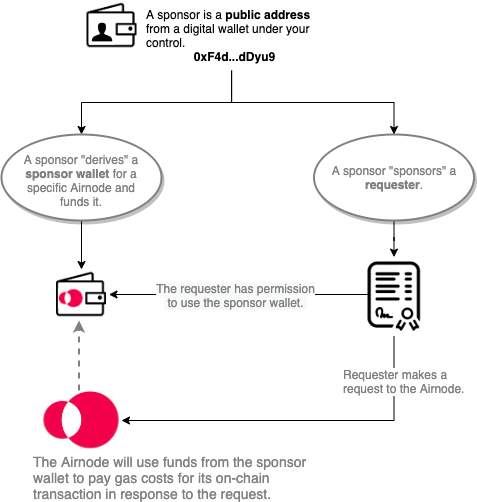
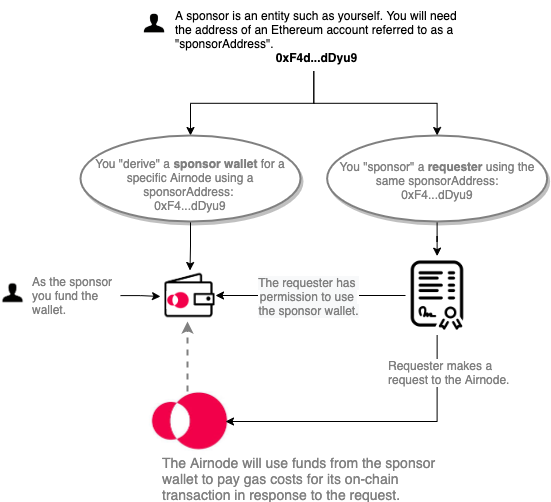
More general work on Sponsors

diff --git a/docs/next/grp-developers/sponsorship.md b/docs/next/grp-developers/sponsorship.md
@@ -19,57 +19,83 @@ As an example see the `myContract.sol` contract in the diagram within the [Overv
 
 ## What is a Sponsor?
 
-Equally important is the term **sponsor** also found thought the docs and code. A sponsor is the public address of a wallet (Ethereum account) you control. Usually you would have just one but can have multiples if desired. You will use the sponsor to derive a separate "sponsor wallet" for each Airnode you use and also to sponsor requesters. 
+Equally important is the term **sponsor** also found throughout the docs and code. A sponsor is an entity such as yourself, an organization, etc. 
 
-In the diagram below, a _sponsor_ derives a "sponsor wallet" for a specific Airnode. Then the _sponsor_ sponsors a "requester".
+As a sponsor you will use the address of an Ethereum account _(called a sponsorAddress)_ to "derive a sponsor wallet" for an Airnode, fund the wallet and then "sponsor a requester" with the same sponsorAddress. 
+
+You do this because a sponsor is the entity that pays for the fulfillment of a request, the gas costs the Airnode will incur. These costs will be withdrawn from the sponsor wallet of the Airnode you have sponsored when the requester calls it.
+
+In the diagram below a sponsor uses a sponsorAddress to "derive a sponsor wallet" for a specific Airnode and fund it. Then the sponsor uses the same sponsorAddress to "sponsor a requester". Because the requester was sponsored with the same sponsorAddress that was used to derive the sponsor wallet of the Airnode, the requester can now make requests of the Airnode.
 
 >![image](../assets/images/sponsor-overview.png)
 
-When you sponsor a requester you are giving it permission to use the sponsor wallet
-associated with the Airnode. When the requester makes a request to the Airnode, the Airnode will use funds from the sponsor wallet to pay its on-chain gas cost to make a transaction.
+---
 
+In the above diagram it is possible to use the same sponsorAddress `(0xF4...dDyu9)` to derive other sponsor wallets for other Airnodes. And it is possible to sponsor more than one requester with this same sponsorAddress. However it is important to remember that all requesters can now access all the  Airnodes regardless if they need to. There is no harm in this scenario.
 
+**Some unique and more advanced scenarios.**
+- Two requesters sponsored with the same sponsorAddress `(0xF4...dDyu9)` could access the same Airnode having a sponsor wallet derived by sponsorAddress `(0xF4...dDyu9)`.
 
-A developer decides to build a requester contract that makes requests to a specific Airnode. Using a sponsor the developer derives a "sponsor wallet" for the Airnode. The developer funds the sponsor wallet, then calls setSponsorshipStatus() in AirnodeRrp with the address of their requester contract to sponsor it. This means the developer is now the sponsor of their requester contract, i.e., the requester contract can make Airnode requests that will be fulfilled by their sponsor wallet.
+- Using two separate sponsorAddresses (from two different Ethereum accounts), you can derive two separate sponsor wallets for the same Airnode, say `(0xF4...dDyu9)` and `(0xG9...fFzc5)`. Then you can sponsor one requester each with `(0xF4...dDyu9)` and the other with `(0xG9...fFzc5)`. Now each requester will deplete funds from a separate sponsor wallet. 
 
+- You have derived two sponsor wallets for two different Airnodes using different sponsorAddresses, say `(0xF4...dDyu9)` and `(0xG9...fFzc5)`. You have one requester that needs to makes requests from each Airnode. Simply sponsor the requester twice with both sponsorAddresses.
+
+**Things to remember:**
+
+When you sponsor a requester with a sponsorAddress, you are giving it permission to use the sponsor wallet associated with the Airnode (created with the same sponsorAddress). 
+
+When the requester makes a request to the Airnode, the Airnode will use funds from the correct sponsor wallet to pay gas costs in response to the request. Therefore the sponsor pays for teh fulfillment of the request.
+
+<Fix> -----------> Marker: continue here to the end.</Fix>
 ## Admin CLI Commands
 
-There are several requester related commands in the [@api3/airnode-admin](../reference/cli-commands.md#create-requester) package. Here we will use three commands to create a requester record, endorse client contracts and fund Airnodes.
+There are several sponsor and requester related commands in the [@api3/airnode-admin](../reference/cli-commands.md#create-requester) package. You can also see a list of available commands using `npx @api3/airnode-admin --help`.
 
-1. Create a Requester Record:[`create-requester`](../reference/cli-commands.md#create-requester)creates a requester record.
-2. Endorse Client Contracts:[`endorse-client`](../reference/cli-commands.md#endorse-client)endorses a client contract.
-3. Fund Airnodes:[`derive-designated-wallet`](../reference/cli-commands.md#derive-designated-wallet)creates a requester specific wallet associated with an Airnode.
+In the next two sections of this doc you will use two commands from the @api3/airnode-admin package to _derive a sponsor wallet_ and to _sponsor a requester_.
 
-## Part 1: Create a Requester Record
+<Fix>These links need fixing when CLI doc is ready.</Fix>
 
-Each requester needs to create a requester record and get assigned a requester index. To create a new requester record you will need the following.
+1. [`derive-sponsor-wallet`](../reference/cli-commands.md#derive-designated-wallet)creates a sponsor wallet associated with an Airnode.
+2. [`sponsor-requester`](../reference/cli-commands.md#endorse-client) sponsors a requester.
 
-- A blockchain providerURL such as the URL with your Infura providerID on the Ropsten network.
-- A mnemonic for gas to fund the record creation.
-- An address that will be used to administer the requester record (requesterAdmin) in the future, use the default public address of the mnemonic. 
 
-::: tip mnemonic
-This wallet pays the transaction gas costs to write the requester record. This is not the wallet(s) that will pay gas costs to actually execute any Airnode, for that the Airnode themselves will create sponsor wallets on behalf of your sponsor record. [Part 3](sponsorship.md#part-3-funding-airnodes) will explain more about sponsor wallets.
-:::
+## How to Derive a Sponsor Wallet
 
-[@api3/airnode-admin create-requester](../reference/cli-commands.md#create-requester)
+<Fix>Again the use of sponsor here is confusing</Fix>
+To use a particular Airnode, derive a _sponsor wallet_ using an `airnodeAddress` and a `sponsor`. Once the wallet is created it must be funded using the public address returned by the command`derive-sponsor-wallet`. Each Airnode keeps a list of sponsor wallets that can access the Airnode. Learn more about [sponsor wallets](../reference/protocols/request-response/sponsor-wallet.md).
+
+Since the sponsor wallet is recorded in the cloud provider (i.g., AWS) where Airnode functions live, there are no on-chain transaction gas costs when deriving a sponsor wallet.
+
+To derive a sponsor wallet for an Airnode execute the `sponsor-designated-wallet` command using the parameters detailed in the list below.
+
+<Fix>Below the use of sponsor is just confusing because it really means address and I feel compelled to say so.</Fix>
+- A blockchain `providerURL` such as the URL with your Infura providerID on the Ropsten network.
+- The `airnodeAddress` of the desired Airnode.
+- A `sponsor` (public address of a wallet you control).
+
+[@api3/airnode-admin sponsor-designated-wallet](../reference/cli-commands.md#derive-designated-wallet)
 
 ```bash
-npx @api3/airnode-admin create-requester \
+npx @api3/airnode-admin derive-designated-wallet \
   --providerUrl https://ropsten.infura.io/v3/<KEY> \
-  --mnemonic "cricket oppose ..." \ # Used to pay the gas costs for this transaction.
-  --requesterAdmin 0xaBd9daAdf...   # The admin address, mnemonic public key.
+  --airnodeId 0xe1e0dd... \ # The ID of the Airnode the requester wants access to.
+  --requesterIndex 6        # The requesterIndex identifies the requester record.
 
   # Returns
-  Created requester with index 6 
-  and admin address 0xaBd9daAdf...
+  Derived the address of the wallet designated for requester with index 6 
+  by Airnode with ID 0xaebd88bf458dfc4899d... 
+  to be 0xa5C073E31fAb1F8acf... # Here is the wallet's public address.
 ```
 
-The command `create-requester` will return a `requester index` and the `requesterAdmin` address that were passed to execute the command. It is important to remember the requester index for future use.
+The command derive-sponsor-wallet will return the public address of the sponsor wallet to be funded.
 
-## Part 2: Endorse Client Contracts
+<SponsorWalletWarning/>
 
-A requester endorses a client contract allowing it make Airnode requests on behave of the requester. Your client contract should already be deployed. 
+## How to Sponsor a Requester
+
+You sponsor a requester allowing it make Airnode requests on behave of the requester. Your client contract should already be deployed. 
+
+Requesters that have been sponsored by the same `sponsor` that derived the sponsor wallet of an Airnode by a requester will have access to all Airnodes the requester has funded using the designated wallet. This allows the requester to cover the gas cost when executing an Airnode. However this does not cover the cost of API data that the Airnode serves, see [API Provider Fees](fees.md#api-provider-fees). Developers need to keep their sponsor wallets topped off if they want the Airnodes to fulfill requests made by their requesters.
 
 Endorsing a client contract means it can make Airnode requests, paid for by a designated wallet associated with the Airnode and the requesterIndex from your requester record. [Part 3](sponsorship.md#part-3-funding-airnodes) will explain more about designated wallets.
 
@@ -81,6 +107,10 @@ To endorse a client contract you will need the following.
 - The `clientAddress` which is the public address of the client contract.
 
 [@api3/airnode-admin endorse-client](../reference/cli-commands.md#endorse-client)
+
+::: tip mnemonic
+This wallet pays the transaction gas costs to write the requester record. This is not the wallet(s) that will pay gas costs to actually execute any Airnode, for that the Airnode themselves will create sponsor wallets on behalf of your sponsor record. [Part 3](sponsorship.md#part-3-funding-airnodes) will explain more about sponsor wallets.
+:::
 
 ```bash
 npx @api3/airnode-admin endorse-client \
@@ -96,54 +126,13 @@ npx @api3/airnode-admin endorse-client \
 
 The command `endorse-client` will return the client contract address and the requester index that were passed to execute the command. 
 
-## Part 3: Funding Airnodes
-
-To fund a particular Airnode, a requester instructs the Airnode to derive a _designated wallet_ on behave of the requester  using the Airnode's ID and the requester's requesterIndex. Once the wallet is created it must be funded using the public address returned by the command`derive-designated-wallet`. Each Airnode keeps a list of requester designated wallets that can access the Airnode. Learn more about [designated wallets](../reference/protocols/request-response/designated-wallet.md).
-
-Client contracts endorsed by a requester will have access to all Airnodes the requester has funded using the designated wallet. This allows the requester to cover the gas cost when executing an Airnode. However this does not cover the cost of API data that the Airnode serves, see [API Provider Fees](fees.md#api-provider-fees). Requesters need to keep their designated wallets topped off if they want the Airnodes to fulfill requests made by their endorsed client contracts.
-
-Since the designated wallet is recorded in the cloud provider (i.g., AWS) where Airnode functions live, there are no on-chain transaction gas costs when deriving a designated wallet.
-
-<SponsorWalletWarning/>
-
-Learn more about [sponsor wallets](../reference/protocols/request-response/sponsor-wallet.md) in the reference section.
-
-To fund an Airnode simply tell any Airnode to derive a _designated wallet_ for your requesterIndex. This will return the public address of the designated wallet so you can fund it.
-
-To derive a designated wallet for an Airnode and fund it, you will need the following.
-
-- A blockchain providerURL such as the URL with your Infura providerID on the Ropsten network.
-- The `airnodeId` of the desired Airnode.
-- The requester's `requesterIndex` that was generated when creating a requester record.
-
-[@api3/airnode-admin derive-designated-wallet](../reference/cli-commands.md#derive-designated-wallet)
-
-```bash
-npx @api3/airnode-admin derive-designated-wallet \
-  --providerUrl https://ropsten.infura.io/v3/<KEY> \
-  --airnodeId 0xe1e0dd... \ # The ID of the Airnode the requester wants access to.
-  --requesterIndex 6        # The requesterIndex identifies the requester record.
-
-  # Returns
-  Derived the address of the wallet designated for requester with index 6 
-  by Airnode with ID 0xaebd88bf458dfc4899d... 
-  to be 0xa5C073E31fAb1F8acf... # Here is the wallet's public address.
-```
-
-The command derive-designated-wallet will return the public address of the designated wallet to be funded.
-
 ## Record Keeping
 
-During and after creating/managing your requester record there are some items you should write down for future use.
+During and after deriving a sponsor wallets and sponsoring requesters there are a few things to keep track of.
 
 |Item|Description|
 |-|-|
-|Maintenance wallet (mnemonic)|A minimally funded mnemonic used to change your requester record, client contract endorsements, etc. in the future.|
-|requesterIndex|* An identifer (number) you received when creating a requester record.|
-|requesterAdmin|Usually the default public address of the mnemonic you used when creating a requester record.|
-|Airnode designated wallets|** For each Airnode you have funded a custodial designated wallet was created. The Airnode keeps the private key and returns you the public address which you use to add funds. |
+|sponsors|Sponsors are a public address of a wallet you control. Write down which sponsor you used for each Airnode when you derive its sponsor wallet. Also write down which sponsor you used to sponsor any requesters.|
+|sponsor wallets|* For each Airnode you have derived a sponsor wallet, the Airnode keeps the private key and returns you the public address which you use to add funds.|
 
-
-\* Do not loose your requesterIndex, it cannot be recovered.
-
-\** You can acquire the public address of a designated wallet later, if you loose it, by running the command`derive-designated-wallet`again. Since the designated wallet was already created for the requesterIndex/airnodeId pair, the command will only return the known public address for the wallet.
+\* You can acquire the public address of a sponsor wallet later, if you loose it, by running the command`sponsor-designated-wallet`again. Since the sponsor wallet was already created for the sponsor/airnodeAddress pair, the command will only return the known public address for the wallet. However you must use the same sponsor used when the wallet was first create or a new sponsor wallet wil be created.

diff --git a/docs/next/grp-developers/fees.md b/docs/next/grp-developers/fees.md
@@ -7,9 +7,8 @@ title: Fees
 <TocHeader />
 <TOC class="table-of-contents" :include-level="[2,3]" />
 
-<Todo>
-<p>This doc needs updating once the new repo README(s) are ready for the Airnode (beta) re-writes.</p>
-</Todo>
+<Fix>This doc needs updating once the new repo README(s) are ready for the Airnode (beta) re-writes.
+</Fix>
 
 A requester will have three types of fees to consider.
 
